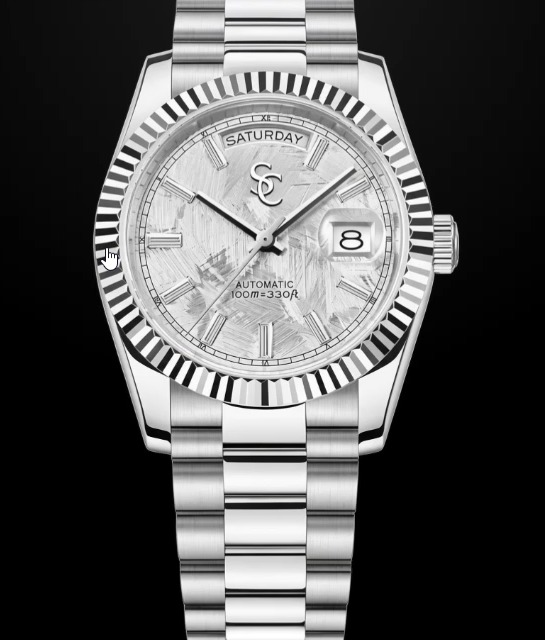
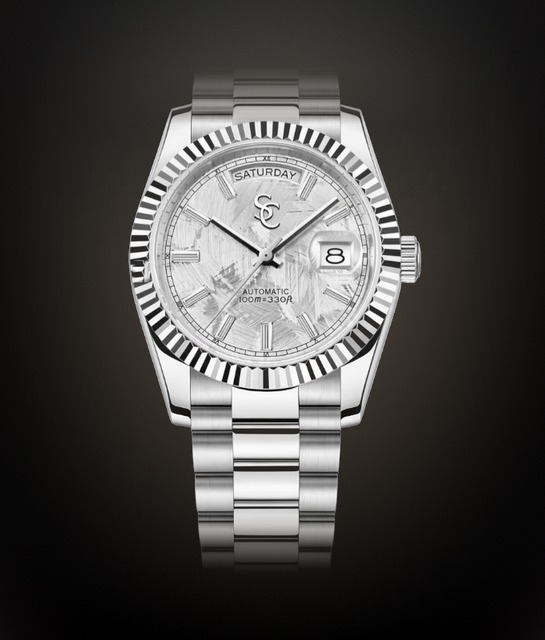
Pages légales, réassurance et nouvelles photos
- Ajoute les mentions légales (avec politique de confidentialité) et les CGV
  (rétractation 14 jours, garanties légales, formulaire de rétractation).
  Les informations à compléter sont surlignées en jaune.
- Case d'acceptation des CGV sur la page Commander, liens légaux en pied de page.
- Accueil : proposition de valeur avec les prix, réassurance, FAQ.
- Fiche montre : prix sur le bouton, réassurance, barre « Commander » sur mobile.
- Photos Céleste Date et Eclipse sur le même fond que la Finesse.

Claude-Session: https://claude.ai/code/session_013UZNy7xkcBTpazd5dqS8UM

diff --git a/cgv.html b/cgv.html
@@ -1,0 +1,109 @@
+<!doctype html>
+<html lang="fr">
+<head>
+  <meta charset="utf-8">
+  <meta name="viewport" content="width=device-width, initial-scale=1">
+  <title>Conditions générales de vente — S&amp;C Watches</title>
+  <meta name="description" content="Conditions générales de vente, droit de rétractation et garanties des montres S&C Watches.">
+  <link rel="preconnect" href="https://fonts.googleapis.com">
+  <link rel="preconnect" href="https://fonts.gstatic.com" crossorigin>
+  <link href="https://fonts.googleapis.com/css2?family=Cormorant+Garamond:ital,wght@0,400;0,500;1,400&family=Manrope:wght@400;500;600&display=swap" rel="stylesheet">
+  <link rel="stylesheet" href="assets/css/style.css">
+</head>
+<body data-page="legal">
+<main>
+  <div class="wrap page-head">
+    <span class="eyebrow plain">Informations légales</span>
+    <h1>Conditions générales de vente</h1>
+    <p class="lead">En vigueur au <span class="todo">[date]</span>. Elles s'appliquent à toute commande passée sur ce site par un consommateur.</p>
+  </div>
+
+  <div class="wrap legal-text">
+    <nav class="legal-toc">
+      <a href="#art1">Vendeur</a>
+      <a href="#art3">Prix</a>
+      <a href="#art4">Commande</a>
+      <a href="#art5">Paiement</a>
+      <a href="#art6">Livraison</a>
+      <a href="#retractation">Droit de rétractation</a>
+      <a href="#garanties">Garanties</a>
+      <a href="#mediation">Litiges</a>
+      <a href="#formulaire">Formulaire de rétractation</a>
+    </nav>
+
+    <h2 id="art1">Article 1 — Vendeur</h2>
+    <p>Les produits sont vendus par <span class="todo">[Nom ou dénomination sociale]</span>, <span class="todo">[forme juridique]</span>, SIRET <span class="todo">[n°]</span>, dont l'adresse est <span class="todo">[numéro et rue]</span>, 74940 Annecy-le-Vieux, France (ci-après « S&amp;C Watches »). Contact : <a href="mailto:SCWatchesofficial@gmail.com">SCWatchesofficial@gmail.com</a> — <span class="todo">[téléphone]</span>. Toutes les informations légales figurent dans les <a href="mentions-legales.html">mentions légales</a>.</p>
+
+    <h2 id="art2">Article 2 — Produits</h2>
+    <p>Les montres proposées sont décrites et photographiées avec la plus grande exactitude possible sur leur fiche. Les photographies ne sont pas contractuelles : de légères différences de teinte peuvent apparaître selon l'écran utilisé. Les offres sont valables dans la limite des stocks affichés.</p>
+
+    <h2 id="art3">Article 3 — Prix</h2>
+    <p>Les prix sont indiqués en euros, <span class="todo">[toutes taxes comprises / « TVA non applicable, article 293 B du CGI » si vous êtes en franchise de TVA]</span>. Les frais de livraison sont indiqués avant la validation de la commande et s'ajoutent au prix des produits. Le prix applicable est celui affiché au moment de la commande.</p>
+
+    <h2 id="art4">Article 4 — Commande</h2>
+    <p>Pour commander, vous choisissez votre modèle et la quantité, indiquez vos coordonnées et votre adresse de livraison, acceptez les présentes conditions, puis réglez votre commande sur la page de paiement sécurisée. La vente est conclue une fois le paiement accepté. Un numéro de commande (format SC-000000) vous est communiqué ; il vous permet de suivre votre commande sur la page <a href="suivi.html">Suivi</a>.</p>
+    <p>S&amp;C Watches se réserve le droit d'annuler une commande en cas de litige existant avec le client, de problème de paiement ou de rupture de stock ; dans ce cas, toute somme versée est intégralement remboursée.</p>
+
+    <h2 id="art5">Article 5 — Paiement</h2>
+    <p>Le paiement s'effectue par carte bancaire via le prestataire sécurisé Stripe. Vos coordonnées bancaires sont saisies directement chez Stripe et ne sont jamais communiquées à S&amp;C Watches. Le montant est débité au moment de la commande.</p>
+
+    <h2 id="art6">Article 6 — Livraison</h2>
+    <p>Les commandes sont livrées en France uniquement, à l'adresse indiquée lors de la commande. Les frais de livraison s'élèvent à <span data-shipping>5 €</span> par commande. Si l'adresse de livraison entraîne des frais supplémentaires, nous vous contactons avant l'expédition et vous restez libre d'annuler la commande sans frais.</p>
+    <p>La commande est expédiée dans un délai de <span class="todo">[X jours ouvrés]</span> après la confirmation du paiement, par <span class="todo">[transporteur, ex. Colissimo suivi]</span>. Le numéro de suivi est disponible sur la page <a href="suivi.html">Suivi</a>. Sauf accord différent, la livraison intervient au plus tard 30 jours après la conclusion du contrat. À défaut, vous pouvez annuler la commande dans les conditions prévues aux articles L216-2 et suivants du Code de la consommation.</p>
+    <p>En cas de colis endommagé, nous vous conseillons d'émettre des réserves auprès du transporteur et de nous prévenir dans les meilleurs délais, photos à l'appui.</p>
+
+    <h2 id="retractation">Article 7 — Droit de rétractation</h2>
+    <p>Vous disposez d'un délai de <b>14 jours</b> à compter de la réception de votre montre pour exercer votre droit de rétractation, sans avoir à justifier de motif ni à payer de pénalité.</p>
+    <p>Pour l'exercer, informez-nous de votre décision par une déclaration claire, par exemple par e-mail à <a href="mailto:SCWatchesofficial@gmail.com">SCWatchesofficial@gmail.com</a>, ou en utilisant le <a href="#formulaire">formulaire ci-dessous</a> (son utilisation n'est pas obligatoire).</p>
+    <p>Vous devez ensuite nous renvoyer la montre, complète et dans son emballage d'origine, au plus tard 14 jours après nous avoir informés de votre décision, à l'adresse : <span class="todo">[adresse de retour]</span>. <b>Les frais de retour sont à votre charge</b> <span class="todo">[ou : « sont pris en charge par S&amp;C Watches » — choisissez]</span>.</p>
+    <p>Nous vous remboursons la totalité des sommes versées, frais de livraison initiaux compris (sur la base du mode de livraison standard), au plus tard 14 jours après avoir été informés de votre décision, par le même moyen de paiement que celui utilisé pour la commande. Nous pouvons différer le remboursement jusqu'à la réception de la montre ou jusqu'à ce que vous ayez fourni une preuve de son expédition.</p>
+    <p>Votre responsabilité peut être engagée en cas de dépréciation de la montre résultant de manipulations autres que celles nécessaires pour établir sa nature, ses caractéristiques et son bon fonctionnement (par exemple : traces d'usure, rayures, bracelet raccourci).</p>
+    <p>Conformément à l'article L221-28 du Code de la consommation, le droit de rétractation ne s'applique pas aux montres confectionnées selon vos spécifications ou nettement personnalisées (par exemple une gravure à votre demande).</p>
+
+    <h2 id="garanties">Article 8 — Garanties légales</h2>
+    <p>Toutes les montres bénéficient de la garantie légale de conformité (articles L217-1 et suivants du Code de la consommation) et de la garantie des vices cachés (articles 1641 à 1649 du Code civil), indépendamment de toute garantie commerciale.</p>
+    <div class="legal-box">
+      <p>Le consommateur dispose d'un délai de deux ans à compter de la délivrance du bien pour obtenir la mise en œuvre de la garantie légale de conformité en cas d'apparition d'un défaut de conformité. Durant ce délai, le consommateur n'est tenu d'établir que l'existence du défaut de conformité et non la date d'apparition de celui-ci.</p>
+      <p>La garantie légale de conformité emporte obligation pour le professionnel, le cas échéant, de fournir toutes les mises à jour nécessaires au maintien de la conformité du bien.</p>
+      <p>La garantie légale de conformité donne au consommateur droit à la réparation ou au remplacement du bien dans un délai de trente jours suivant sa demande, sans frais et sans inconvénient majeur pour lui.</p>
+      <p>Si le bien est réparé dans le cadre de la garantie légale de conformité, le consommateur bénéficie d'une extension de six mois de la garantie initiale.</p>
+      <p>Si le consommateur demande la réparation du bien, mais que le vendeur impose le remplacement, la garantie légale de conformité est renouvelée pour une période de deux ans à compter de la date de remplacement du bien.</p>
+      <p>Le consommateur peut obtenir une réduction du prix d'achat en conservant le bien ou mettre fin au contrat en se faisant rembourser intégralement contre restitution du bien, si : 1° Le professionnel refuse de réparer ou de remplacer le bien ; 2° La réparation ou le remplacement du bien intervient après un délai de trente jours ; 3° La réparation ou le remplacement du bien occasionne un inconvénient majeur pour le consommateur, notamment lorsque le consommateur supporte définitivement les frais de reprise ou d'enlèvement du bien non conforme, ou s'il supporte les frais d'installation du bien réparé ou de remplacement ; 4° La non-conformité du bien persiste en dépit de la tentative de mise en conformité du vendeur restée infructueuse.</p>
+      <p>Le consommateur a également droit à une réduction du prix du bien ou à la résolution du contrat lorsque le défaut de conformité est si grave qu'il justifie que la réduction du prix ou la résolution du contrat soit immédiate. Le consommateur n'est alors pas tenu de demander la réparation ou le remplacement du bien au préalable.</p>
+      <p>Le consommateur n'a pas droit à la résolution de la vente si le défaut de conformité est mineur.</p>
+      <p>Toute période d'immobilisation du bien en vue de sa réparation ou de son remplacement suspend la garantie qui restait à courir jusqu'à la délivrance du bien remis en état.</p>
+      <p>Les droits mentionnés ci-dessus résultent de l'application des articles L. 217-1 à L. 217-32 du code de la consommation.</p>
+      <p>Le vendeur qui fait obstacle de mauvaise foi à la mise en œuvre de la garantie légale de conformité encourt une amende civile d'un montant maximal de 300 000 euros, qui peut être porté jusqu'à 10 % du chiffre d'affaires moyen annuel (article L. 241-5 du code de la consommation).</p>
+      <p>Le consommateur bénéficie également de la garantie légale des vices cachés en application des articles 1641 à 1649 du code civil, pendant une durée de deux ans à compter de la découverte du défaut. Cette garantie donne droit à une réduction de prix si le bien est conservé ou à un remboursement intégral contre restitution du bien.</p>
+    </div>
+    <p>Pour toute demande au titre des garanties, écrivez-nous à <a href="mailto:SCWatchesofficial@gmail.com">SCWatchesofficial@gmail.com</a> en précisant votre numéro de commande et en joignant des photos du défaut.</p>
+    <p class="todo-block"><span class="todo">[Facultatif : si vous offrez une garantie commerciale en plus (par exemple « garantie 2 ans sur le mouvement »), décrivez ici sa durée, ce qu'elle couvre et comment la faire jouer. Sinon, supprimez ce paragraphe.]</span></p>
+
+    <h2 id="donnees">Article 9 — Données personnelles</h2>
+    <p>Les données recueillies lors de votre commande servent uniquement à son traitement et à son suivi. Le détail de leur utilisation et de vos droits figure dans nos <a href="mentions-legales.html#donnees">mentions légales</a>.</p>
+
+    <h2 id="mediation">Article 10 — Réclamations, médiation et litiges</h2>
+    <p>Pour toute réclamation, contactez-nous d'abord à <a href="mailto:SCWatchesofficial@gmail.com">SCWatchesofficial@gmail.com</a> : nous cherchons toujours une solution amiable.</p>
+    <p>Si votre réclamation n'a pas abouti, vous pouvez recourir gratuitement au médiateur de la consommation dont nous relevons : <span class="todo">[nom du médiateur, adresse, site internet — à choisir et à contracter, liste sur economie.gouv.fr/mediation-conso]</span>, dans un délai d'un an à compter de votre réclamation écrite.</p>
+    <p>Les présentes conditions sont soumises au droit français. À défaut d'accord amiable, le litige sera porté devant les tribunaux compétents dans les conditions de droit commun.</p>
+
+    <h2 id="formulaire">Annexe — Formulaire de rétractation</h2>
+    <p class="muted">Veuillez compléter et renvoyer ce formulaire uniquement si vous souhaitez vous rétracter du contrat.</p>
+    <div class="legal-box">
+      <p>À l'attention de <span class="todo">[Nom ou dénomination sociale]</span>, <span class="todo">[adresse]</span>, 74940 Annecy-le-Vieux — SCWatchesofficial@gmail.com :</p>
+      <p>Je vous notifie par la présente ma rétractation du contrat portant sur la vente du bien ci-dessous :</p>
+      <p>— Modèle et numéro de commande : …………………………<br>
+         — Commandé le : ……………… / reçu le : ………………<br>
+         — Nom du consommateur : …………………………<br>
+         — Adresse du consommateur : …………………………<br>
+         — Signature du consommateur (uniquement en cas de notification sur papier) :<br>
+         — Date : ………………</p>
+    </div>
+  </div>
+</main>
+<script src="https://cdn.jsdelivr.net/npm/@supabase/supabase-js@2.45.4/dist/umd/supabase.js"></script>
+<script src="assets/js/config.js"></script>
+<script src="assets/js/store.js"></script>
+<script src="assets/js/site.js"></script>
+</body>
+</html>

diff --git a/assets/js/site.js b/assets/js/site.js
@@ -37,7 +37,7 @@
         <div><h4>Suivez-nous</h4><ul><li><a href="https://instagram.com/${esc(settings.instagram)}" target="_blank" rel="noopener" style="display:flex;gap:10px;align-items:center">${ICON.insta.replace('<svg', '<svg width="15" height="15"')} Instagram <span class="muted">@${esc(settings.instagram)}</span></a></li><li><a href="mailto:${esc(settings.contactEmail)}">${esc(settings.contactEmail)}</a></li></ul></div>
       </div>
       <div class="giant" aria-hidden="true">S&amp;C WATCHES</div>
-      <div class="legal"><span>© ${new Date().getFullYear()} S&amp;C Watches. Tous droits réservés.</span><span>Fabriqué en France</span></div>
+      <div class="legal"><span>© ${new Date().getFullYear()} S&amp;C Watches. Tous droits réservés.</span><span class="legal-links"><a href="mentions-legales.html">Mentions légales &amp; confidentialité</a><a href="cgv.html">CGV</a><a href="cgv.html#retractation">Rétractation</a></span><span>Fabriqué en France</span></div>
     </div></footer>
     <div class="toast" id="toast" role="status"></div>`);
 
@@ -49,6 +49,34 @@
     $$('.reveal:not(.in)').forEach(el => io ? io.observe(el) : el.classList.add('in'));
   }
 
+  /* ---------- Réassurance (uniquement des faits vérifiables) ---------- */
+  const ship = Number(settings.shipping) || 0;
+  const REASSURE = [
+    ['truck', ship ? `Livraison en France : ${eur(ship)}` : 'Livraison offerte en France'],
+    ['lock', 'Paiement sécurisé par carte (Stripe)'],
+    ['back', "14 jours pour changer d'avis"],
+    ['chat', 'Une question ? Réponse personnelle'],
+  ];
+  const RICON = {
+    truck: '<path d="M1.5 4h8v7h-8zM9.5 6.5h3l2 2.5V11h-5"/><circle cx="4.5" cy="12" r="1.3"/><circle cx="11.5" cy="12" r="1.3"/>',
+    lock: '<rect x="3" y="7" width="10" height="7" rx="1"/><path d="M5 7V5a3 3 0 0 1 6 0v2"/>',
+    back: '<path d="M3 6h7a3.5 3.5 0 0 1 0 7H6"/><path d="M5.5 3.5L3 6l2.5 2.5"/>',
+    chat: '<path d="M2 3.5h12v8H6l-3 2.5v-2.5H2z"/>',
+  };
+  const reassureHTML = () => REASSURE.map(([i, t]) => `<li><svg viewBox="0 0 16 16" fill="none" stroke="currentColor" stroke-width="1.2">${RICON[i]}</svg>${esc(t)}</li>`).join('');
+  $$('[data-reassure]').forEach(el => { el.innerHTML = reassureHTML(); });
+  $$('[data-shipping]').forEach(el => { el.textContent = ship ? eur(ship) : 'offerts'; });
+
+  const FAQ = [
+    ['Combien coûte la livraison ?', `${ship ? 'La livraison coûte ' + eur(ship) : 'La livraison est offerte'} en France. Nous livrons pour l'instant en France uniquement.`],
+    ['Le paiement est-il sécurisé ?', 'Oui. Vous réglez par carte bancaire sur la page de paiement de Stripe. Nous ne voyons ni ne conservons jamais vos coordonnées bancaires.'],
+    ['Et si la montre ne me plaît pas ?', "Vous disposez de 14 jours après réception pour changer d'avis. Écrivez-nous et nous vous expliquons comment nous la renvoyer. Tous les détails sont dans nos conditions générales de vente (lien en bas de page)."],
+    ['Comment suivre ma commande ?', 'Après votre commande, vous recevez un numéro (SC-000000). Avec ce numéro et votre e-mail, la page Suivi vous indique à tout moment où en est votre montre.'],
+    ['Pourquoi ces prix ?', "Nous vendons directement depuis notre atelier d'Annecy-le-Vieux, sans boutique ni revendeur entre vous et nous : pas de marge d'intermédiaire à payer."],
+  ];
+  const faq = $('#faq');
+  if (faq) faq.innerHTML = FAQ.map(([q, a]) => `<details><summary>${esc(q)}</summary><p>${esc(a)}</p></details>`).join('');
+
   /* ---------- Carte produit ---------- */
   function card(p) {
     const out = p.stock <= 0;
@@ -56,7 +84,7 @@
       <div class="card-media"><img src="${esc(p.image)}" alt="${esc(p.name)}" loading="lazy"><span class="badge ${out ? 'out' : ''}">${out ? 'Épuisée' : esc(p.badge || 'Disponible')}</span></div>
       <div class="card-title"><h3>${esc(p.name)}</h3><span class="price">${eur(p.price)}</span></div>
       <p>${esc(p.short)}</p>
-      <span class="link">Explorer les caractéristiques ${ICON.arrow.replace('<svg', '<svg width="13" height="13"')}</span>
+      <span class="link">Voir la montre ${ICON.arrow.replace('<svg', '<svg width="13" height="13"')}</span>
     </a>`;
   }
 
@@ -83,7 +111,7 @@
       const root = $('#product');
       if (!p || !p.active) { root.innerHTML = `<div class="success"><h1>Montre introuvable</h1><p class="lead" style="margin:16px auto 30px">Ce modèle n'est plus disponible.</p><a class="btn btn-silver" href="collection.html">Voir la collection</a></div>`; return; }
       document.title = `${p.name} — S&C Watches`;
-      const stock = p.stock <= 0 ? '<span class="stock out">Épuisée — contactez-nous pour être prévenu</span>' : p.stock <= 3 ? `<span class="stock low">Plus que ${p.stock} en stock</span>` : '<span class="stock">En stock</span>';
+      const stock = p.stock <= 0 ? '<span class="stock out">Épuisée — contactez-nous pour être prévenu</span>' : p.stock <= 5 ? `<span class="stock low">Plus que ${p.stock} exemplaire${p.stock > 1 ? 's' : ''} disponible${p.stock > 1 ? 's' : ''}</span>` : '<span class="stock">En stock</span>';
       root.innerHTML = `<div class="product">
         <div class="product-media"><img src="${esc(p.image)}" alt="${esc(p.name)}"></div>
         <div>
@@ -95,9 +123,11 @@
           <p class="desc">${esc(p.description || p.short)}</p>
           <dl class="specs">${Object.entries(p.specs || {}).map(([k, v]) => `<div><dt>${esc(k)}</dt><dd>${esc(v)}</dd></div>`).join('')}</dl>
           <div style="display:flex;gap:12px;flex-wrap:wrap">
-            ${p.stock > 0 ? `<a class="btn btn-silver" href="commander.html?modele=${encodeURIComponent(p.id)}">Commander ${ICON.arrow}</a>` : ''}
+            ${p.stock > 0 ? `<a class="btn btn-silver" href="commander.html?modele=${encodeURIComponent(p.id)}">Commander · ${eur(p.price)} ${ICON.arrow}</a>` : ''}
             <a class="btn" href="contact.html?modele=${encodeURIComponent(p.id)}">Poser une question</a>
           </div>
+          <ul class="reassure">${reassureHTML()}</ul>`
+          + (p.stock > 0 ? `<div class="buy-bar"><div><b>${esc(p.name)}</b><span>${eur(p.price)}</span></div><a class="btn btn-silver" href="commander.html?modele=${encodeURIComponent(p.id)}">Commander</a></div>` : '') + `
         </div></div>`;
     },
 

diff --git a/mentions-legales.html b/mentions-legales.html
@@ -1,0 +1,80 @@
+<!doctype html>
+<html lang="fr">
+<head>
+  <meta charset="utf-8">
+  <meta name="viewport" content="width=device-width, initial-scale=1">
+  <title>Mentions légales — S&amp;C Watches</title>
+  <meta name="description" content="Mentions légales et politique de confidentialité du site S&C Watches.">
+  <link rel="preconnect" href="https://fonts.googleapis.com">
+  <link rel="preconnect" href="https://fonts.gstatic.com" crossorigin>
+  <link href="https://fonts.googleapis.com/css2?family=Cormorant+Garamond:ital,wght@0,400;0,500;1,400&family=Manrope:wght@400;500;600&display=swap" rel="stylesheet">
+  <link rel="stylesheet" href="assets/css/style.css">
+</head>
+<body data-page="legal">
+<main>
+  <div class="wrap page-head">
+    <span class="eyebrow plain">Informations légales</span>
+    <h1>Mentions légales</h1>
+    <p class="lead">Dernière mise à jour : <span class="todo">[date]</span></p>
+  </div>
+
+  <div class="wrap legal-text">
+    <nav class="legal-toc">
+      <a href="#editeur">Éditeur du site</a>
+      <a href="#hebergement">Hébergement</a>
+      <a href="#propriete">Propriété intellectuelle</a>
+      <a href="#donnees">Données personnelles</a>
+      <a href="#cookies">Cookies</a>
+      <a href="cgv.html">Conditions générales de vente</a>
+    </nav>
+
+    <h2 id="editeur">1. Éditeur du site</h2>
+    <p>Le site S&amp;C Watches est édité par :</p>
+    <ul>
+      <li><b>Nom ou dénomination sociale :</b> <span class="todo">[Prénom Nom de l'entrepreneur, ou nom de la société]</span></li>
+      <li><b>Forme juridique :</b> <span class="todo">[Entrepreneur individuel (micro-entreprise) / SAS / SASU / SARL…]</span></li>
+      <li><b>Capital social :</b> <span class="todo">[montant en € — uniquement pour une société ; supprimer sinon]</span></li>
+      <li><b>Adresse :</b> <span class="todo">[numéro et rue]</span>, 74940 Annecy-le-Vieux, France</li>
+      <li><b>SIRET :</b> <span class="todo">[14 chiffres]</span></li>
+      <li><b>Immatriculation :</b> <span class="todo">[RCS d'Annecy n° … / Répertoire national des entreprises — selon votre statut]</span></li>
+      <li><b>TVA :</b> <span class="todo">[n° de TVA intracommunautaire, ou « TVA non applicable, article 293 B du CGI » si vous êtes en franchise de TVA]</span></li>
+      <li><b>E-mail :</b> <a href="mailto:SCWatchesofficial@gmail.com">SCWatchesofficial@gmail.com</a></li>
+      <li><b>Téléphone :</b> <span class="todo">[numéro]</span></li>
+      <li><b>Directeur de la publication :</b> <span class="todo">[Prénom Nom]</span></li>
+    </ul>
+
+    <h2 id="hebergement">2. Hébergement</h2>
+    <p>Le site est hébergé par <span class="todo">[GitHub, Inc. (GitHub Pages), 88 Colin P. Kelly Jr. Street, San Francisco, CA 94107, États-Unis — à adapter si vous choisissez un autre hébergeur, par exemple Netlify]</span>.</p>
+    <p>Les données des commandes et des messages sont stockées par <span class="todo">[Supabase, Inc. — préciser la région choisie pour le projet, par exemple « serveurs situés dans l'Union européenne (Francfort) »]</span>.</p>
+    <p>Les paiements par carte sont traités par Stripe Payments Europe, Ltd. (Dublin, Irlande). S&amp;C Watches n'a jamais accès à vos coordonnées bancaires.</p>
+
+    <h2 id="propriete">3. Propriété intellectuelle</h2>
+    <p>Le nom et le logo S&amp;C Watches, les textes, photographies et éléments graphiques de ce site sont protégés. Toute reproduction, totale ou partielle, sans autorisation écrite préalable est interdite.</p>
+
+    <h2 id="donnees">4. Données personnelles</h2>
+    <h3>Responsable du traitement</h3>
+    <p><span class="todo">[Nom de l'entrepreneur ou de la société]</span>, joignable à <a href="mailto:SCWatchesofficial@gmail.com">SCWatchesofficial@gmail.com</a>.</p>
+    <h3>Données collectées et finalités</h3>
+    <ul>
+      <li><b>Commande :</b> nom, e-mail, téléphone et adresse de livraison, pour préparer, expédier et suivre votre commande, et vous contacter à son sujet (base légale : exécution du contrat).</li>
+      <li><b>Formulaire de contact :</b> nom, e-mail et message, pour vous répondre (base légale : votre demande).</li>
+      <li><b>Comptabilité :</b> les informations de facturation sont conservées pour respecter nos obligations légales (base légale : obligation légale).</li>
+    </ul>
+    <p>Vos coordonnées bancaires sont saisies directement chez Stripe et ne nous sont jamais transmises.</p>
+    <h3>Destinataires</h3>
+    <p>Vos données sont réservées à S&amp;C Watches et à ses prestataires techniques (hébergement, base de données, paiement, transporteur pour la livraison). Elles ne sont jamais vendues ni louées.</p>
+    <h3>Durée de conservation</h3>
+    <p>Les données de commande sont conservées le temps de la relation commerciale puis archivées pendant la durée légale (10 ans pour les pièces comptables). Les messages sans suite sont supprimés au plus tard 3 ans après le dernier contact.</p>
+    <h3>Vos droits</h3>
+    <p>Vous pouvez accéder à vos données, les rectifier, les effacer, en limiter l'utilisation, vous y opposer ou en demander la portabilité en écrivant à <a href="mailto:SCWatchesofficial@gmail.com">SCWatchesofficial@gmail.com</a>. Si vous estimez que vos droits ne sont pas respectés, vous pouvez adresser une réclamation à la CNIL (<a href="https://www.cnil.fr" target="_blank" rel="noopener">www.cnil.fr</a>).</p>
+
+    <h2 id="cookies">5. Cookies</h2>
+    <p>Ce site n'utilise aucun cookie publicitaire ni outil de mesure d'audience. Il enregistre seulement, dans votre navigateur, les informations techniques nécessaires à son fonctionnement.</p>
+  </div>
+</main>
+<script src="https://cdn.jsdelivr.net/npm/@supabase/supabase-js@2.45.4/dist/umd/supabase.js"></script>
+<script src="assets/js/config.js"></script>
+<script src="assets/js/store.js"></script>
+<script src="assets/js/site.js"></script>
+</body>
+</html>

diff --git a/assets/css/style.css b/assets/css/style.css
@@ -225,3 +225,48 @@ footer { border-top: 1px solid var(--line); background: #070709; padding: 70px 0
 
 .toast { position: fixed; bottom: 22px; left: 50%; transform: translateX(-50%) translateY(30px); background: #f2f2f4; color: #0b0b0d; padding: 13px 22px; border-radius: 999px; font-size: 13px; font-weight: 600; opacity: 0; transition: .3s; z-index: 100; pointer-events: none; }
 .toast.show { opacity: 1; transform: translateX(-50%); }
+
+/* ---------- Réassurance & FAQ ---------- */
+.reassure { list-style: none; padding: 0; margin: 28px 0 0; display: grid; grid-template-columns: repeat(2, minmax(0, 1fr)); gap: 12px 22px; font-size: 12.5px; color: var(--soft); }
+.reassure li { display: flex; gap: 10px; align-items: center; }
+.reassure svg { width: 16px; height: 16px; flex: none; color: var(--accent); }
+@media (max-width: 480px) { .reassure { grid-template-columns: 1fr; } }
+.faq-wrap { display: grid; grid-template-columns: 1fr 1.6fr; gap: 60px; }
+@media (max-width: 860px) { .faq-wrap { grid-template-columns: 1fr; gap: 26px; } }
+.faq { border-top: 1px solid var(--line); }
+.faq details { border-bottom: 1px solid var(--line); }
+.faq summary { cursor: pointer; list-style: none; padding: 20px 34px 20px 0; position: relative; font: 400 21px/1.3 var(--serif); }
+.faq summary::-webkit-details-marker { display: none; }
+.faq summary::after { content: '+'; position: absolute; right: 4px; top: 18px; font: 300 22px var(--sans); color: var(--muted); transition: transform .2s; }
+.faq details[open] summary::after { transform: rotate(45deg); }
+.faq details p { color: var(--soft); font-size: 14px; padding: 0 0 22px; max-width: 60ch; }
+/* Barre d'achat fixe sur mobile (fiche produit) */
+.buy-bar { display: none; }
+@media (max-width: 860px) {
+  .buy-bar { display: flex; position: fixed; left: 12px; right: 12px; bottom: 12px; z-index: 45; align-items: center; justify-content: space-between; gap: 12px; padding: 10px 10px 10px 18px; border-radius: 999px; background: rgba(14, 14, 18, .94); border: 1px solid var(--line-2); backdrop-filter: blur(14px); -webkit-backdrop-filter: blur(14px); }
+  .buy-bar b { font: 400 17px var(--serif); display: block; line-height: 1.1; }
+  .buy-bar span { font-size: 12px; color: var(--muted); }
+  .buy-bar .btn { height: 42px; padding: 0 20px; }
+  body[data-page="produit"] footer { padding-bottom: 100px; }
+}
+
+/* ---------- Pages légales ---------- */
+.legal-links { display: flex; gap: 18px; flex-wrap: wrap; }
+.legal-links a:hover { color: var(--text); }
+.legal-text { max-width: 760px; padding-bottom: 40px; margin-left: max(16px, calc((100% - var(--wrap)) / 2)); color: var(--soft); font-size: 14.5px; }
+.legal-text h2 { font-size: 28px; color: var(--text); margin: 44px 0 14px; scroll-margin-top: 100px; }
+.legal-text h3 { font-size: 20px; color: var(--text); margin: 24px 0 8px; }
+.legal-text p { margin: 0 0 12px; }
+.legal-text ul { padding-left: 20px; margin: 0 0 12px; display: grid; gap: 6px; }
+.legal-text a { color: var(--text); text-decoration: underline; text-underline-offset: 3px; }
+.legal-toc { display: flex; flex-wrap: wrap; gap: 8px; margin-bottom: 10px; }
+.legal-toc a { text-decoration: none; font-size: 10px; letter-spacing: .18em; text-transform: uppercase; color: var(--muted); border: 1px solid var(--line-2); border-radius: 999px; padding: 8px 14px; }
+.legal-toc a:hover { color: var(--text); }
+.legal-box { background: var(--panel); border: 1px solid var(--line); padding: 22px 24px; margin: 14px 0 18px; font-size: 13.5px; }
+.legal-box p:last-child { margin-bottom: 0; }
+/* Repère des informations à compléter : à supprimer une fois tout rempli */
+.todo { background: rgba(231, 194, 122, .16); color: #e7c27a; padding: 1px 5px; border-radius: 3px; }
+/* Case CGV (page Commander) */
+.consent { display: flex; gap: 12px; align-items: flex-start; font-size: 13px; letter-spacing: 0; text-transform: none; color: var(--soft); line-height: 1.5; cursor: pointer; }
+.consent input { width: 18px; height: 18px; margin: 1px 0 0; flex: none; accent-color: #ddd; padding: 0; }
+.consent a { color: var(--text); text-decoration: underline; text-underline-offset: 3px; }

diff --git a/index.html b/index.html
@@ -15,13 +15,14 @@
   <section class="hero">
     <div class="wrap hero-grid">
       <div class="reveal">
-        <span class="eyebrow">Haute horlogerie française</span>
+        <span class="eyebrow">Dessinées et assemblées à Annecy</span>
         <h1>Le temps n'attend pas.<br><em>Il se dompte.</em></h1>
-        <p class="lead">Garde-temps d'exception façonnés selon les canons de l'horlogerie française contemporaine.</p>
+        <p class="lead">Trois montres en acier, dessinées et assemblées à Annecy-le-Vieux. <b style="color:var(--text);font-weight:500">De 145 € à 240 €</b>, vendues en direct, sans intermédiaire.</p>
         <div class="actions">
-          <a class="btn btn-silver" href="collection.html">Découvrir la collection <svg viewBox="0 0 16 16" fill="none" stroke="currentColor" stroke-width="1.4"><path d="M2 8h12M9 3l5 5-5 5"/></svg></a>
+          <a class="btn btn-silver" href="collection.html">Voir les 3 modèles <svg viewBox="0 0 16 16" fill="none" stroke="currentColor" stroke-width="1.4"><path d="M2 8h12M9 3l5 5-5 5"/></svg></a>
           <a class="btn" href="histoire.html">Notre histoire</a>
         </div>
+        <ul class="reassure" data-reassure></ul>
       </div>
       <div class="hero-visual reveal">
         <img src="assets/img/eclipse.jpg" alt="Montre S&amp;C Eclipse, cadran noir guilloché, bracelet acier">
@@ -31,8 +32,8 @@
   </section>
 
   <div class="marquee" aria-hidden="true"><div class="marquee-track">
-    <span>Cadrans guillochés main</span><span>Fabriqué en France</span><span>Précision chronométrique</span><span>Garantie internationale</span><span>Acier 316L de grade chirurgical</span>
-    <span>Cadrans guillochés main</span><span>Fabriqué en France</span><span>Précision chronométrique</span><span>Garantie internationale</span><span>Acier 316L de grade chirurgical</span>
+    <span>Assemblées à Annecy-le-Vieux</span><span>Vente directe atelier</span><span>Livraison en France</span><span>Paiement sécurisé par carte</span><span>14 jours pour changer d'avis</span>
+    <span>Assemblées à Annecy-le-Vieux</span><span>Vente directe atelier</span><span>Livraison en France</span><span>Paiement sécurisé par carte</span><span>14 jours pour changer d'avis</span>
   </div></div>
 
   <section>
@@ -59,13 +60,20 @@
     </div>
   </section>
 
+  <section style="padding-top:0">
+    <div class="wrap faq-wrap">
+      <div class="reveal"><span class="eyebrow plain">Avant de commander</span><h2 style="margin-top:14px">Vos questions</h2><p class="muted" style="margin-top:14px;font-size:14px;max-width:32ch">Une autre question ? <a href="contact.html" style="color:var(--text);text-decoration:underline">Écrivez-nous</a>, nous répondons personnellement.</p></div>
+      <div class="faq reveal" id="faq"></div>
+    </div>
+  </section>
+
   <section>
     <div class="wrap">
       <div class="cta-box reveal">
         <span class="eyebrow plain">Le catalogue complet</span>
         <h2>Trois garde-temps, une même exigence</h2>
         <div class="names" id="ctaNames"></div>
-        <a class="btn btn-silver" href="collection.html">Parcourir la collection <svg viewBox="0 0 16 16" fill="none" stroke="currentColor" stroke-width="1.4"><path d="M2 8h12M9 3l5 5-5 5"/></svg></a>
+        <a class="btn btn-silver" href="collection.html">Choisir ma montre <svg viewBox="0 0 16 16" fill="none" stroke="currentColor" stroke-width="1.4"><path d="M2 8h12M9 3l5 5-5 5"/></svg></a>
       </div>
     </div>
   </section>

diff --git a/commander.html b/commander.html
@@ -15,7 +15,7 @@
     <div class="wrap page-head">
       <span class="eyebrow plain">Commander</span>
       <h1>Votre garde-temps, livré chez vous</h1>
-      <p class="lead">Choisissez votre modèle, indiquez vos coordonnées de livraison puis réglez par carte bancaire sur une page de paiement sécurisée.</p>
+      <p class="lead">Deux minutes : choisissez votre modèle, indiquez l'adresse de livraison, puis réglez par carte sur la page sécurisée de Stripe.</p>
     </div>
     <div class="wrap checkout" style="padding-bottom:40px">
       <form class="form" id="orderForm" autocomplete="on">
@@ -35,8 +35,10 @@
           <label>Code postal<input name="zip" required inputmode="numeric" maxlength="5" autocomplete="postal-code"></label>
           <label>Ville<input name="city" required autocomplete="address-level2"></label>
         </div>
+        <label class="consent"><input type="checkbox" name="cgv" required> <span>J'ai lu et j'accepte les <a href="cgv.html" target="_blank">conditions générales de vente</a>, notamment le <a href="cgv.html#retractation" target="_blank">droit de rétractation de 14 jours</a>.</span></label>
         <p class="err" id="orderErr" role="alert"></p>
         <div><button class="btn btn-silver" id="payBtn" type="submit"><svg viewBox="0 0 16 16" fill="none" stroke="currentColor" stroke-width="1.4"><rect x="3" y="7" width="10" height="7" rx="1"/><path d="M5 7V5a3 3 0 0 1 6 0v2"/></svg> Payer par carte</button></div>
+        <ul class="reassure" data-reassure style="margin-top:0"></ul>
       </form>
       <aside class="panel summary" id="summary"></aside>
     </div>

diff --git a/LISEZ-MOI.md b/LISEZ-MOI.md
@@ -93,6 +93,7 @@ Astuce : évitez de modifier le même fichier en même temps. Vous pouvez aussi 
 | Fichier | Rôle |
 |---|---|
 | `index.html`, `collection.html`, `montre.html`, `histoire.html`, `commander.html`, `suivi.html`, `contact.html` | Pages du site |
+| `mentions-legales.html`, `cgv.html` | Pages légales obligatoires — remplir tout ce qui est surligné en jaune `[ … ]` avant de vendre |
 | `admin/` | CRM |
 | `assets/js/config.js` | **Les 2 clés Supabase à renseigner** |
 | `assets/js/store.js` | Lecture/écriture des données (en ligne ou local) |
